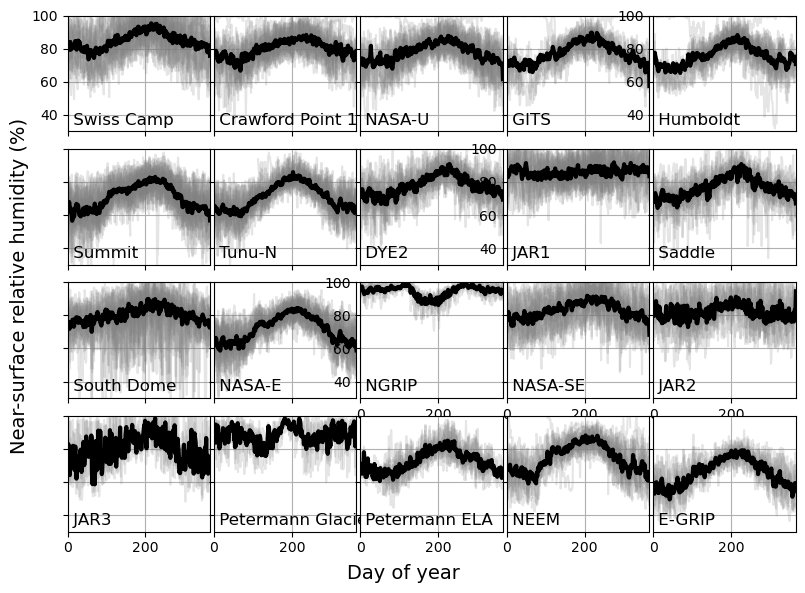
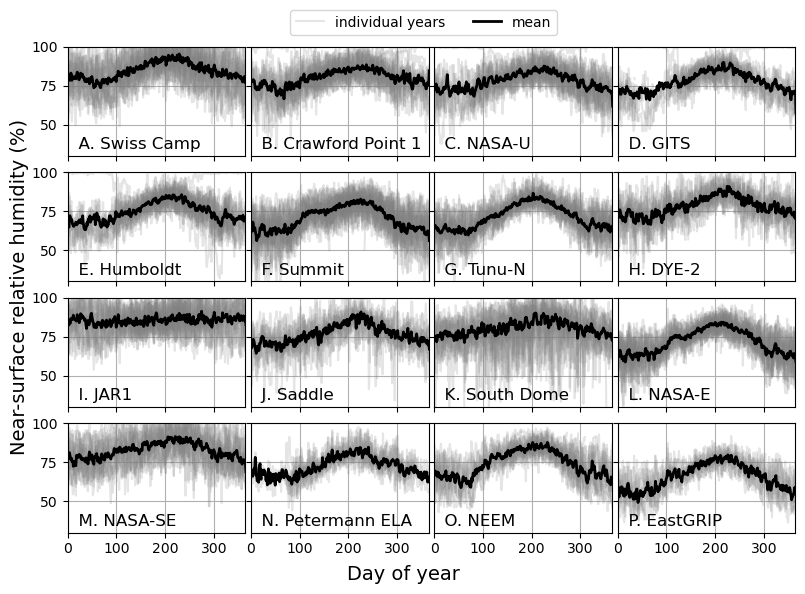
New climatology plots

diff --git a/3_GC-Net_L1_climatologies.py b/3_GC-Net_L1_climatologies.py
@@ -17,21 +17,22 @@ path_to_L1 = '../GC-Net-level-1-data-processing/'
 
 # %% L1 temperature climatology
 plt.close("all")
-site_list = pd.read_csv(path_to_L1 + "metadata/GC-Net_location.csv", header=0,skipinitialspace=(True)).iloc[1:]
+site_list = pd.read_csv(path_to_L1 + "metadata/GC-Net_location.csv", header=0,skipinitialspace=(True)).iloc[1:25]
 
-fig, ax = plt.subplots(4, 5, figsize=(8, 6))
+fig, ax = plt.subplots(4, 4, figsize=(8, 6))
 plt.subplots_adjust(
-    left=0.08, right=0.99, bottom=0.09, top=0.95, hspace=0.15, wspace=0.03
+    left=0.08, right=0.99, bottom=0.09, top=0.9, hspace=0.15, wspace=0.03
 )
 ax = ax.flatten()
 i = -1
-
+ABC = 'ABCDEFGHIJKLMNOPQR'
 for site, ID in zip(site_list.Name, site_list.ID):
-    filename = path_to_L1+"L1/" + str(ID).zfill(2) + "-" + site.replace(" ", "") + ".csv"
+    filename = path_to_L1+"L1/" + str(ID).zfill(2) + "-" + site.replace(" ", "") + "_daily.csv"
     if not path.exists(filename):
         # print('Warning: No file for station '+str(ID)+' '+site)
         continue
-    if site in ['CP2','Aurora','KULU','KAR', 'LAR1', 'LAR2', 'LAR3']:
+    if site in ['CP2','Aurora','KULU','KAR','JAR2','JAR3',
+                'NGRIP','Petermann Glacier', 'LAR1', 'LAR2', 'LAR3']:
         # too short for climatology
         continue
     i = i + 1
@@ -43,8 +44,6 @@ for site, ID in zip(site_list.Name, site_list.ID):
     df = df[["TA1", "TA2", "TA3", "TA4", "HW1", "HW2"]]
     df.loc[df.TA1.isnull(), "TA1"] = df.loc[df.TA1.isnull(), "TA3"]
     df.loc[df.TA1.isnull(), "TA2"] = df.loc[df.TA1.isnull(), "TA4"]
-
-    
 
     df["T2m"] = extrapolate_temp(df).values
     df["T"] = df["T2m"]
@@ -70,14 +69,14 @@ for site, ID in zip(site_list.Name, site_list.ID):
         try:
             tmp = df.loc[str(year), :].resample("D").mean()
             doy = tmp.index.dayofyear.values
-            ax[i].plot(doy, tmp["T"].values, color="gray", label=str(year), alpha=0.2)
+            ax[i].plot(doy, tmp["T"].values, color="gray", label='_nolegend_', alpha=0.2)
         except:
             pass
-    climatology.plot(ax=ax[i], color="k", linewidth=3, label="average")
+    climatology.plot(ax=ax[i], color="k", linewidth=2, label="_nolegend_")
     # plt.legend()
-    ax[i].set_title(" " + site, loc="left", y=1.0, pad=-14)
+    ax[i].set_title("  "+ABC[i]+". " + site, loc="left", y=1.0, pad=-14)
     ax[i].set_xlim(0, 365)
-    ax[i].set_ylim(-65, 15)
+    ax[i].set_ylim(-65, 20)
     ax[i].set_xlabel("")
     if i < 12:
         ax[i].set_xticklabels("")
@@ -94,25 +93,28 @@ fig.text(
     va="center",
     rotation="vertical",
 )
+ax[0].plot(np.nan,np.nan, color="gray", label='individual years', alpha=0.2)
+ax[0].plot(np.nan,np.nan, color="k", linewidth=2, label="mean")
+ax[0].legend(loc='upper center', bbox_to_anchor=(2,1.4), ncol=2)
 plt.savefig("out/L1_climatologies/climatology_temperature", bbox_inches="tight")
 
 # %% L1 humidity climatology
 plt.close("all")
 
-fig, ax = plt.subplots(4, 5, figsize=(8, 6))
+fig, ax = plt.subplots(4, 4, figsize=(8, 6))
 plt.subplots_adjust(
-    left=0.08, right=0.99, bottom=0.09, top=0.95, hspace=0.15, wspace=0.03
+    left=0.08, right=0.99, bottom=0.09, top=0.9, hspace=0.15, wspace=0.03
 )
 ax = ax.flatten()
 i = -1
 
 for site, ID in zip(site_list.Name, site_list.ID):
-    filename = path_to_L1+"L1/" + str(ID).zfill(2) + "-" + site.replace(" ", "") + ".csv"
+    filename = path_to_L1+"L1/" + str(ID).zfill(2) + "-" + site.replace(" ", "") + "_daily.csv"
     if not path.exists(filename):
         # print('Warning: No file for station '+str(ID)+' '+site)
         continue
-    if site in ['CP2','Aurora','KULU','KAR', 'LAR1', 'LAR2', 'LAR3']:
-        # too short for climatology
+    if site in ['CP2','Aurora','KULU','KAR','JAR2','JAR3',
+                'NGRIP','Petermann Glacier', 'LAR1', 'LAR2', 'LAR3']:        # too short for climatology
         continue
     i = i + 1
     ds = nead.read(filename)
@@ -145,12 +147,12 @@ for site, ID in zip(site_list.Name, site_list.ID):
         try:
             tmp = df.loc[str(year), :].resample("D").mean()
             doy = tmp.index.dayofyear.values
-            ax[i].plot(doy, tmp["RH"].values, color="gray", label=str(year), alpha=0.2)
+            ax[i].plot(doy, tmp["RH"].values, color="gray", label="_nolegend_", alpha=0.2)
         except:
             pass
-    climatology.plot(ax=ax[i], color="k", linewidth=3, label="average")
+    climatology.plot(ax=ax[i], color="k", linewidth=2, label="_nolegend_")
     # plt.legend()
-    ax[i].set_title(" " + site, loc="left", y=0.0, pad=5)
+    ax[i].set_title("  "+ABC[i]+". " + site, loc="left", y=0.0, pad=5)
     ax[i].set_xlim(0, 365)
     ax[i].set_ylim(30, 100)
     ax[i].set_xlabel("")
@@ -169,24 +171,28 @@ fig.text(
     va="center",
     rotation="vertical",
 )
+ax[0].plot(np.nan,np.nan, color="gray", label='individual years', alpha=0.2)
+ax[0].plot(np.nan,np.nan, color="k", linewidth=2, label="mean")
+ax[0].legend(loc='upper center', bbox_to_anchor=(2,1.4), ncol=2)
 plt.savefig("out/L1_climatologies/climatology_humidity", bbox_inches="tight")
 
 # %% L1 pressure climatology
 plt.close("all")
 
-fig, ax = plt.subplots(4, 5, figsize=(8, 6))
+fig, ax = plt.subplots(4, 4, figsize=(8, 6))
 plt.subplots_adjust(
-    left=0.08, right=0.99, bottom=0.09, top=0.95, hspace=0.15, wspace=0.03
+    left=0.08, right=0.99, bottom=0.09, top=0.9, hspace=0.15, wspace=0.03
 )
 ax = ax.flatten()
 i = -1
 
 for site, ID in zip(site_list.Name, site_list.ID):
-    filename = path_to_L1+"L1/" + str(ID).zfill(2) + "-" + site.replace(" ", "") + ".csv"
+    filename = path_to_L1+"L1/" + str(ID).zfill(2) + "-" + site.replace(" ", "") + "_daily.csv"
     if not path.exists(filename):
         # print('Warning: No file for station '+str(ID)+' '+site)
         continue
-    if site in ['CP2','Aurora','KULU','KAR', 'LAR1', 'LAR2', 'LAR3']:
+    if site in ['CP2','Aurora','KULU','KAR','JAR2','JAR3',
+                'NGRIP','Petermann Glacier', 'LAR1', 'LAR2', 'LAR3']:
         # too short for climatology
         continue
     i = i + 1
@@ -217,15 +223,15 @@ for site, ID in zip(site_list.Name, site_list.ID):
         try:
             tmp = df.loc[str(year), :].resample("D").mean()
             doy = tmp.index.dayofyear.values
-            ax[i].plot(doy, tmp["P"].values, color="gray", label=str(year), alpha=0.2)
+            ax[i].plot(doy, tmp["P"].values, color="gray", label="_nolegend_", alpha=0.2)
         except:
             pass
-    climatology.plot(ax=ax[i], color="k", linewidth=3, label="average")
+    climatology.plot(ax=ax[i], color="k", linewidth=2, label="_nolegend_")
     # plt.legend()
     if site == "Summit":
-        ax[i].set_title(" " + site, loc="left", y=1.0, pad=-14)
+        ax[i].set_title("  "+ABC[i]+". " + site, loc="left", y=1.0, pad=-14)
     else:
-        ax[i].set_title(" " + site, loc="left", y=0.0, pad=5)
+        ax[i].set_title("  "+ABC[i]+". " + site, loc="left", y=0.0, pad=5)
     ax[i].set_xlim(0, 365)
     ax[i].set_ylim(600, 950)
     ax[i].set_xlabel("")
@@ -244,24 +250,28 @@ fig.text(
     va="center",
     rotation="vertical",
 )
+ax[0].plot(np.nan,np.nan, color="gray", label='individual years', alpha=0.2)
+ax[0].plot(np.nan,np.nan, color="k", linewidth=2, label="mean")
+ax[0].legend(loc='upper center', bbox_to_anchor=(2,1.4), ncol=2)
 plt.savefig("out/L1_climatologies/climatology_pressure", bbox_inches="tight")
 
 # %% L1 wind speed climatology
 plt.close("all")
 
-fig, ax = plt.subplots(4, 5, figsize=(8, 6))
+fig, ax = plt.subplots(4, 4, figsize=(8, 6))
 plt.subplots_adjust(
-    left=0.08, right=0.99, bottom=0.09, top=0.95, hspace=0.15, wspace=0.03
+    left=0.08, right=0.99, bottom=0.09, top=0.9, hspace=0.15, wspace=0.03
 )
 ax = ax.flatten()
 i = -1
 
 for site, ID in zip(site_list.Name, site_list.ID):
-    filename = path_to_L1+"L1/" + str(ID).zfill(2) + "-" + site.replace(" ", "") + ".csv"
+    filename = path_to_L1+"L1/" + str(ID).zfill(2) + "-" + site.replace(" ", "") + "_daily.csv"
     if not path.exists(filename):
         # print('Warning: No file for station '+str(ID)+' '+site)
         continue
-    if site in ['CP2','Aurora','KULU','KAR', 'LAR1', 'LAR2', 'LAR3']:
+    if site in ['CP2','Aurora','KULU','KAR','JAR2','JAR3',
+                'NGRIP','Petermann Glacier', 'LAR1', 'LAR2', 'LAR3']:
         # too short for climatology
         continue
     i = i + 1
@@ -298,13 +308,13 @@ for site, ID in zip(site_list.Name, site_list.ID):
         try:
             tmp = df.loc[str(year), :].resample("D").mean()
             doy = tmp.index.dayofyear.values
-            ax[i].plot(doy, tmp["T"].values, color="gray", label=str(year), alpha=0.2)
+            ax[i].plot(doy, tmp["T"].values, color="gray", label="_nolegend_", alpha=0.2)
         except:
             pass
-    climatology.plot(ax=ax[i], color="k", linewidth=3, label="average")
+    climatology.plot(ax=ax[i], color="k", linewidth=2, label="_nolegend_")
     # plt.legend()
 
-    ax[i].set_title(" " + site, loc="left", y=1.0, pad=-14)
+    ax[i].set_title("  "+ABC[i]+". " + site, loc="left", y=1.0, pad=-14)
     ax[i].set_xlim(0, 365)
     ax[i].set_ylim(0, 30)
     ax[i].set_xlabel("")
@@ -323,4 +333,7 @@ fig.text(
     va="center",
     rotation="vertical",
 )
+ax[0].plot(np.nan,np.nan, color="gray", label='individual years', alpha=0.2)
+ax[0].plot(np.nan,np.nan, color="k", linewidth=2, label="mean")
+ax[0].legend(loc='upper center', bbox_to_anchor=(2,1.4), ncol=2)
 plt.savefig("out/L1_climatologies/climatology_windspeed", bbox_inches="tight")

diff --git a/2_GC-Net_L1_vs_other_aws.py b/2_GC-Net_L1_vs_other_aws.py
@@ -21,16 +21,17 @@ import matplotlib.dates as mdates
 np.seterr(invalid='ignore')
 warnings.filterwarnings("ignore")
 plt.close('all')
-comp_matrix = np.array([['Swiss Camp', 'SWC'], 
-                ['NASA-U', 'NAU'],
-                ['NASA-E', 'NAE'],
+comp_matrix = np.array([
                 ['GITS', 'CEN'],
                 ['GITS', 'CEN2'],
+                ['Swiss Camp', 'SWC'], 
+                ['NASA-U', 'NAU'],
+                ['NASA-E', 'NAE'],
                 ['NEEM', 'NEM'],
                 ['E-GRIP', 'EGP'],
                 ['Saddle', 'SDL'],
-                ['DYE2', 'U. Calg.'],
-                ['DYE2', 'DY2'],
+                ['DYE-2', 'U. Calg.'],
+                ['DYE-2', 'DY2'],
                 ['Summit', 'DMI'],
                 ['Summit', 'NOAA']])
 
@@ -59,6 +60,9 @@ ylabels = ['Downward shortwave radiation, $Wm^{-2}$',
            'Wind direction 2, $^o$',
            'Latent heat flux, $Wm^{-2}$', 
            'Sensible heat flux, $Wm^{-2}$']
+# var_list1 = [var_list1[12]]
+# var_list2 = [var_list2[12]]
+# ylabels = [ylabels[12]]
 ABC = 'ABCDEFGHIJKL'
 
 print('Variable AWS1 AWS2 ME RMSE')
@@ -77,21 +81,26 @@ for var1, var2, lab in zip(var_list1, var_list2, ylabels):
         df_L1[df_L1==-999] = np.nan
         
         df_gc = df_L1.copy()
-        if os.path.exists('Input/GEUS stations/'+name_sec+'_hour_v01.csv'):
-            df_sec = pd.read_csv('Input/GEUS stations/'+name_sec+'_hour_v01.csv')
+        if os.path.exists('Data/GEUS stations/'+name_sec+'_hour_v01.csv'):
+            df_sec = pd.read_csv('Data/GEUS stations/'+name_sec+'_hour_v01.csv')
+            df_sec['time'] = pd.to_datetime(df_sec.time, utc=True)
+            df_sec = df_sec.set_index('time')
+            df_sec.index = df_sec.index + pd.Timedelta('1H')
+        elif os.path.exists('Data/GEUS stations/'+name_sec+'_hour.csv'):
+            df_sec = pd.read_csv('Data/GEUS stations/'+name_sec+'_hour.csv')
             df_sec['time'] = pd.to_datetime(df_sec.time, utc=True)
             df_sec = df_sec.set_index('time')
             df_sec.index = df_sec.index + pd.Timedelta('1H')
         elif os.path.exists('Input/data_'+site+'_Samira_hour.txt'):
             df_sec = gnl.load_ucalg('Input/data_'+site+'_Samira_hour.txt')
             df_sec.index = df_sec.index + pd.Timedelta('1H')
-        if os.path.exists('Input/GEUS stations/'+name_sec+'_hour.csv'):
-            df_sec = pd.read_csv('Input/GEUS stations/'+name_sec+'_hour.csv')
+        if os.path.exists('Data/GEUS stations/'+name_sec+'_hour.csv'):
+            df_sec = pd.read_csv('Data/GEUS stations/'+name_sec+'_hour.csv')
             df_sec['time'] = pd.to_datetime(df_sec.time, utc=True)
             df_sec = df_sec.set_index('time')
             df_sec.index = df_sec.index + pd.Timedelta('1H')
-        if os.path.exists('./Input/GEUS stations/'+name_sec+'_hour_v04.csv'):
-            df_sec = pd.read_csv('Input/GEUS stations/'+name_sec+'_hour_v04.csv')
+        if os.path.exists('./Data/GEUS stations/'+name_sec+'_hour_v04.csv'):
+            df_sec = pd.read_csv('Data/GEUS stations/'+name_sec+'_hour_v04.csv')
             df_sec['time'] = pd.to_datetime(df_sec.time, utc=True)
             df_sec = df_sec.set_index('time')
             df_sec.index = df_sec.index + pd.Timedelta('1H')
